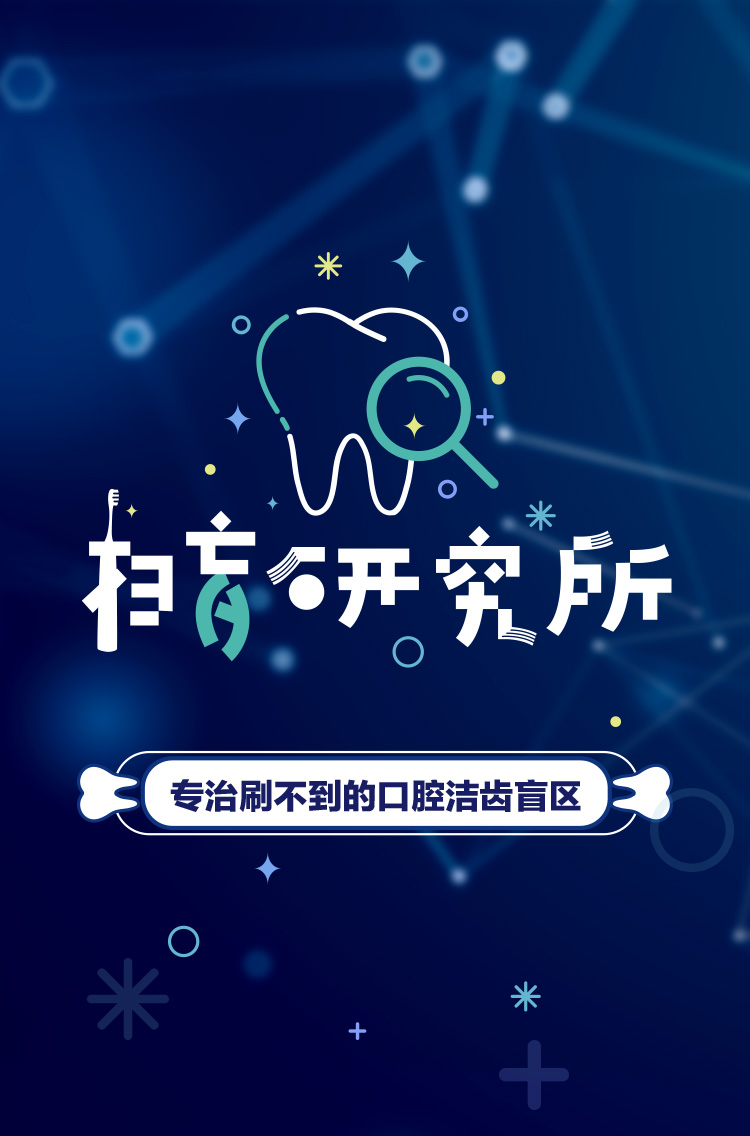
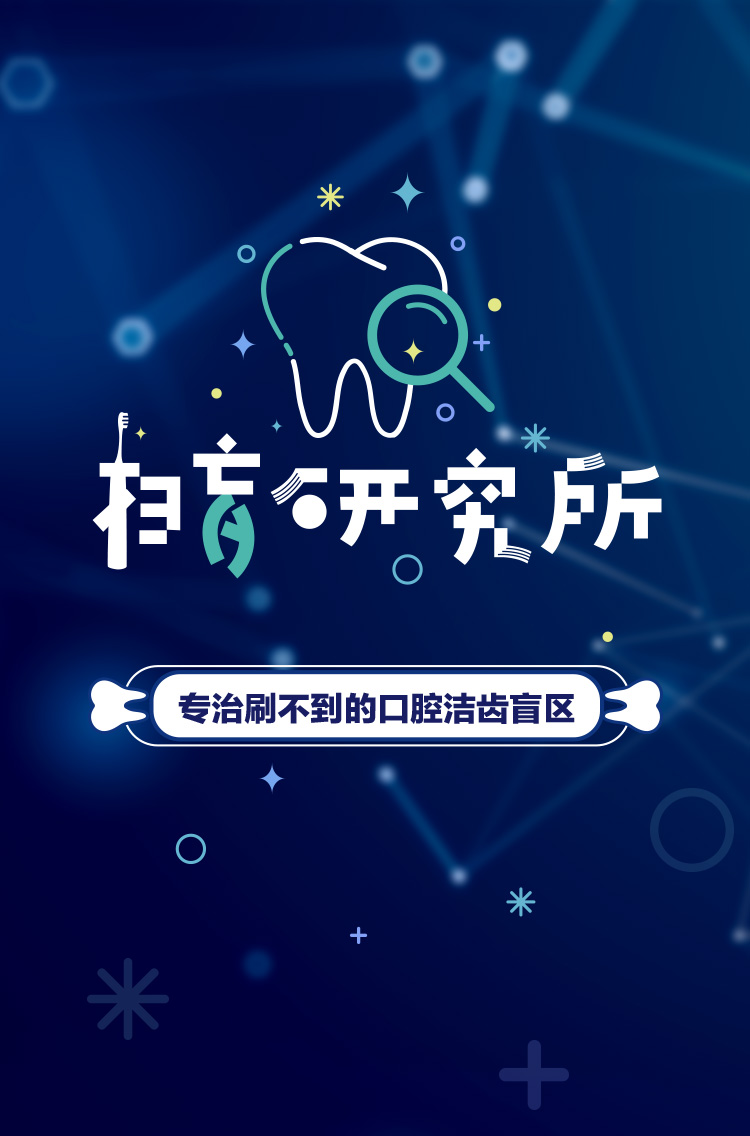
更新设计

diff --git a/src/js/app/script.js b/src/js/app/script.js
@@ -19,10 +19,11 @@ define([
         // 设置分享
         const voiceId = world.sword.getUrlParam('voiceId') || 1;
         const copy = [
-            { title: '分享1标题：飞利浦，扫盲研究所', description: '分享1描述：飞利浦，扫盲研究所' },
-            { title: '分享2标题：飞利浦，扫盲研究所', description: '分享2描述：飞利浦，扫盲研究所' },
-            { title: '分享3标题：飞利浦，扫盲研究所', description: '分享3描述：飞利浦，扫盲研究所' },
-            { title: '分享4标题：飞利浦，扫盲研究所', description: '分享4描述：飞利浦，扫盲研究所' }
+            { title: '飞利浦，扫盲研究所 - 解密口腔菌群', description: '　' },
+            { title: '飞利浦，扫盲研究所 - 你忽视的磨牙盲区', description: '　' },
+            { title: '飞利浦，扫盲研究所 - 牙石源于牙菌斑', description: '　' },
+            { title: '飞利浦，扫盲研究所 - 你忽视的切牙盲区', description: '　' },
+            { title: '飞利浦，扫盲研究所 - 牙菌斑知多少', description: '　' }
         ];
         world.blade.share(copy[voiceId - 1].title, copy[voiceId - 1].description);
 
@@ -30,7 +31,7 @@ define([
         if (!sword.isPC) { world.lakers.$block.mount(); }
 
         world.lakers.$loader.mount(() => {
-            console.log('回调');
+            // console.log('回调');
             // world.lakers.$video.mount($('body'));
             world.rivers.$index.mount();
         });

diff --git a/src/js/utils/blade.js b/src/js/utils/blade.js
@@ -2,7 +2,7 @@ define(['jquery', 'jquery.hammer'], ($) => {
     const self = {};
 
     self.share = (title, desc) => {
-        var host = 'http://test.tron-m.com/philips/saomang';
+        var host = 'http://www.tron-m.com/philips/saomang';
 
         $.ajax({
             type: 'post',
@@ -26,7 +26,7 @@ define(['jquery', 'jquery.hammer'], ($) => {
                     var url = document.location.href;
                     // var title = '飞利浦 - 扫盲研究所';
                     // var desc = '飞利浦 - 扫盲研究所';
-                    var imgUrl = host + '/assets/img/main/bg.jpg';
+                    var imgUrl = host + '/assets/img/share.jpg';
 
                     wx.onMenuShareTimeline({
                         title: title, // 分享标题

diff --git a/src/style/usr/index.less b/src/style/usr/index.less
@@ -41,7 +41,7 @@
 
     .button {
         position: relative;
-        top: 675px;
+        top: 960px;
         text-align: center;
 
         span {
@@ -53,13 +53,15 @@
             height: image-height(@url-local);
             display: inline-block;
             background-size: 100% auto;
-            animation: kf-size 1.5s linear infinite;
+            // animation: kf-size 1.5s linear infinite;
         }
     }
 
-    .icon {
-        position: relative;
-        top: 890px;
+    .controller {
+        position: absolute;
+        top: 790px;
+        width: 100%;
+        text-align: center;
     }
 
     .icon-play {

diff --git a/src/components/usr/index.html b/src/components/usr/index.html
@@ -10,7 +10,7 @@
             <div class="logo"></div>
             <div class="jd"></div>
             <div class="button"><span></span></div>
-            <i class="icon icon-voice icon-play"></i>
+            <div class="controller"><i class="icon icon-voice icon-play"></i></div>
         </div>
     </body>
 </html>

diff --git a/src/js/app/common/loader-createjs.js b/src/js/app/common/loader-createjs.js
@@ -50,7 +50,7 @@ define([
         function onComplete() {
             laker.$root.fadeOut(() => laker.destroy());
             world.sword.tryFun(callback);
-            console.log('资源加载完成');
+            // console.log('资源加载完成');
         }
 
         function onProgress() {
